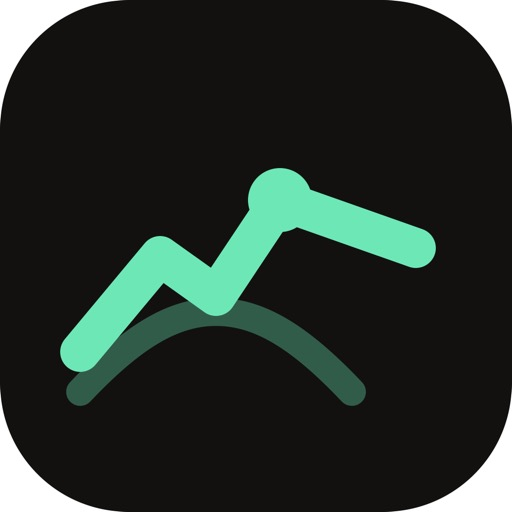
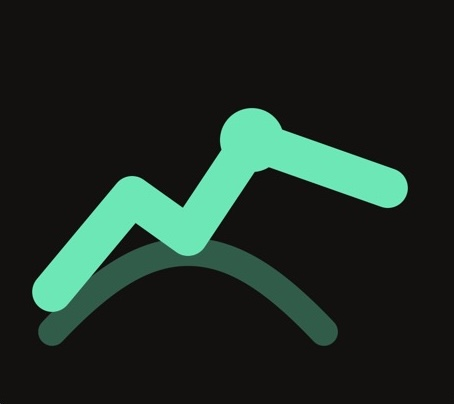
Changes

diff --git a/lib/positionAnalysis.ts b/lib/positionAnalysis.ts
@@ -1,10 +1,28 @@
+import type { Position } from "@/app/types/schwab";
+import {
+  buildInsightsCacheKey,
+  readInsightsCache,
+} from "@/lib/insightsCache";
+
 export const ANALYZE_POSITION_EVENT = "tomcrest:analyze-position";
 export const ANALYZE_PORTFOLIO_EVENT = "tomcrest:analyze-portfolio";
 export const SYMBOL_ANALYSIS_SECTION_ID = "symbol-analysis";
 export const PORTFOLIO_ANALYSIS_SECTION_ID = "portfolio-analysis";
+export const MAIN_CONTENT_ID = "main-content";
 
 /** @deprecated Use SYMBOL_ANALYSIS_SECTION_ID */
 export const SYMBOL_INSIGHTS_SECTION_ID = SYMBOL_ANALYSIS_SECTION_ID;
+
+export type PortfolioAnalysisRequestDetail = {
+  forceAnalyze?: boolean;
+};
+
+export function hasPortfolioAnalysis(positions: Position[]): boolean {
+  if (!positions.length) return false;
+
+  const cacheKey = buildInsightsCacheKey("PORTFOLIO", positions, true);
+  return !!readInsightsCache(cacheKey, "PORTFOLIO");
+}
 
 export function requestPositionAnalysis(symbol?: string) {
   if (typeof window === "undefined") return;
@@ -18,16 +36,75 @@ export function requestPositionAnalysis(symbol?: string) {
   scrollToAnalysisSection(SYMBOL_ANALYSIS_SECTION_ID);
 }
 
-export function requestPortfolioAnalysis() {
+export function goToPortfolioAnalysis(
+  options?: PortfolioAnalysisRequestDetail,
+) {
   if (typeof window === "undefined") return;
 
-  window.dispatchEvent(new CustomEvent(ANALYZE_PORTFOLIO_EVENT));
+  window.dispatchEvent(
+    new CustomEvent<PortfolioAnalysisRequestDetail>(ANALYZE_PORTFOLIO_EVENT, {
+      detail: { forceAnalyze: options?.forceAnalyze ?? true },
+    }),
+  );
+
+  scrollToAnalysisSection(PORTFOLIO_ANALYSIS_SECTION_ID);
 }
 
-function scrollToAnalysisSection(sectionId: string) {
-  window.requestAnimationFrame(() => {
-    document
-      .getElementById(sectionId)
-      ?.scrollIntoView({ behavior: "smooth", block: "start" });
-  });
+export function requestPortfolioAnalysis() {
+  goToPortfolioAnalysis({ forceAnalyze: true });
+}
+
+function readScrollMarginTop(element: HTMLElement): number {
+  const value = getComputedStyle(element).scrollMarginTop;
+  if (!value || value === "auto") return 0;
+  if (value.endsWith("rem")) {
+    return Number.parseFloat(value) * 16;
+  }
+  if (value.endsWith("px")) {
+    return Number.parseFloat(value);
+  }
+  return Number.parseFloat(value) || 0;
+}
+
+function scrollMainContentToTarget(target: HTMLElement) {
+  const root = document.getElementById(MAIN_CONTENT_ID);
+  if (!root || root.scrollHeight <= root.clientHeight + 1) return;
+
+  const scrollMargin = readScrollMarginTop(target);
+  const rootRect = root.getBoundingClientRect();
+  const targetRect = target.getBoundingClientRect();
+  const nextTop =
+    root.scrollTop + (targetRect.top - rootRect.top) - scrollMargin;
+  root.scrollTo({ top: Math.max(0, nextTop), behavior: "smooth" });
+}
+
+export function scrollToAnalysisSection(sectionId: string) {
+  const scrollOnce = (): boolean => {
+    const target = document.getElementById(sectionId);
+    if (!target) return false;
+
+    target.scrollIntoView({ behavior: "smooth", block: "start" });
+    scrollMainContentToTarget(target);
+    return true;
+  };
+
+  const scheduleScroll = (delayMs: number, attemptsLeft = 0) => {
+    window.setTimeout(() => {
+      if (scrollOnce()) {
+        if (attemptsLeft > 0) {
+          scheduleScroll(80, attemptsLeft - 1);
+        }
+        return;
+      }
+      if (attemptsLeft > 0) {
+        scheduleScroll(50, attemptsLeft - 1);
+      }
+    }, delayMs);
+  };
+
+  window.requestAnimationFrame(scrollOnce);
+  scheduleScroll(0, 10);
+  scheduleScroll(200);
+  scheduleScroll(500);
+  scheduleScroll(900);
 }

diff --git a/components/AnalysisPanel.tsx b/components/AnalysisPanel.tsx
@@ -2,7 +2,7 @@
 
 import Link from "next/link";
 import { useRouter } from "next/navigation";
-import { useContext, useEffect, useMemo, useState } from "react";
+import { useContext, useEffect, useMemo, useRef, useState } from "react";
 import { createPortal } from "react-dom";
 import {
   Filter,
@@ -52,6 +52,8 @@ import {
   ANALYZE_POSITION_EVENT,
   PORTFOLIO_ANALYSIS_SECTION_ID,
   SYMBOL_ANALYSIS_SECTION_ID,
+  scrollToAnalysisSection,
+  type PortfolioAnalysisRequestDetail,
 } from "@/lib/positionAnalysis";
 import { scrollToChat } from "@/lib/scrollToChat";
 import { symbolHubPath } from "@/lib/symbolRoutes";
@@ -71,6 +73,13 @@ type PortfolioProps = {
   symbolAlertMap?: Record<string, SymbolAlertSummary>;
   /** Which slice of the portfolio panel to show on the current tab. */
   portfolioView?: "analysis" | "holdings";
+  /** Morning Brief / portfolio navigation requests. */
+  portfolioNavigation?: PortfolioNavigationRequest | null;
+};
+
+export type PortfolioNavigationRequest = {
+  token: number;
+  forceAnalyze: boolean;
 };
 
 type SymbolProps = {
@@ -639,6 +648,10 @@ export function AnalysisPanel(props: AnalysisPanelProps) {
   const [pendingAnalyze, setPendingAnalyze] = useState(false);
   const [sortKey, setSortKey] = useState<SortKey>("weight");
   const [alertsOnly, setAlertsOnly] = useState(false);
+  const portfolioRescrollRef = useRef(false);
+  const portfolioWaitForAnalyzeRef = useRef(false);
+  const portfolioNavigation =
+    isPortfolio ? (props.portfolioNavigation ?? null) : null;
 
   const symbolAlertMap = isPortfolio ? (props.symbolAlertMap ?? {}) : {};
   const positionMap = isPortfolio ? props.positionMap : null;
@@ -730,6 +743,13 @@ export function AnalysisPanel(props: AnalysisPanelProps) {
       setRequested(true);
     };
 
+    const requestPortfolioScroll = (forceAnalyze: boolean) => {
+      portfolioRescrollRef.current = true;
+      portfolioWaitForAnalyzeRef.current = forceAnalyze;
+      setRequested(true);
+      scrollToAnalysisSection(PORTFOLIO_ANALYSIS_SECTION_ID);
+    };
+
     const handlePositionAnalyze = (event: Event) => {
       if (isPortfolio || loading || pendingAnalyze) return;
       const detail = (event as CustomEvent<{ symbol?: string }>).detail;
@@ -737,8 +757,16 @@ export function AnalysisPanel(props: AnalysisPanelProps) {
       beginAnalyze();
     };
 
-    const handlePortfolioAnalyze = () => {
-      if (!isPortfolio || loading || pendingAnalyze) return;
+    const handlePortfolioAnalyze = (event: Event) => {
+      if (!isPortfolio) return;
+
+      const forceAnalyze =
+        (event as CustomEvent<PortfolioAnalysisRequestDetail>).detail
+          ?.forceAnalyze ?? true;
+
+      requestPortfolioScroll(forceAnalyze);
+
+      if (!forceAnalyze || loading || pendingAnalyze) return;
       beginAnalyze();
     };
 
@@ -752,6 +780,45 @@ export function AnalysisPanel(props: AnalysisPanelProps) {
       );
     };
   }, [isPortfolio, loading, pendingAnalyze, refetch, symbol]);
+
+  useEffect(() => {
+    if (!isPortfolio || !showPortfolioAnalysis || !portfolioNavigation) return;
+
+    const { forceAnalyze } = portfolioNavigation;
+
+    portfolioRescrollRef.current = true;
+    portfolioWaitForAnalyzeRef.current = forceAnalyze;
+    setRequested(true);
+
+    if (forceAnalyze && !loading && !pendingAnalyze) {
+      setPendingAnalyze(true);
+      refetch();
+    }
+  }, [isPortfolio, showPortfolioAnalysis, portfolioNavigation?.token]);
+
+  useEffect(() => {
+    if (!isPortfolio || !showPortfolioAnalysis || !portfolioRescrollRef.current) {
+      return;
+    }
+
+    if (portfolioWaitForAnalyzeRef.current && (loading || pendingAnalyze)) {
+      return;
+    }
+
+    const hasOutput = !!content?.trim() || !!structuredAnalysis;
+    if (!hasOutput) return;
+
+    portfolioRescrollRef.current = false;
+    portfolioWaitForAnalyzeRef.current = false;
+    scrollToAnalysisSection(PORTFOLIO_ANALYSIS_SECTION_ID);
+  }, [
+    isPortfolio,
+    showPortfolioAnalysis,
+    loading,
+    pendingAnalyze,
+    content,
+    structuredAnalysis,
+  ]);
 
   const symbolSummaries = useMemo(() => {
     if (!isPortfolio || !positionMap) return [];
@@ -810,9 +877,7 @@ export function AnalysisPanel(props: AnalysisPanelProps) {
     refetch();
     setRequested(true);
     if (isPortfolio) {
-      document
-        .getElementById(PORTFOLIO_ANALYSIS_SECTION_ID)
-        ?.scrollIntoView({ behavior: "smooth", block: "start" });
+      scrollToAnalysisSection(PORTFOLIO_ANALYSIS_SECTION_ID);
     }
   };
 
@@ -960,6 +1025,7 @@ export function AnalysisPanel(props: AnalysisPanelProps) {
   return (
     <section
       id={sectionId}
+      style={{ scrollMarginTop: "5.5rem" }}
       className={cn(
         "overflow-hidden rounded-2xl border border-border bg-secondary/60 shadow-sm",
         className,

diff --git a/app/portfolio/page.tsx b/app/portfolio/page.tsx
@@ -10,7 +10,7 @@ import { PortfolioSnapshot } from "@/components/PortfolioSnapshot";
 import { PortfolioAttentionSection, countAttentionItems } from "@/components/PortfolioAttentionSection";
 import { PortfolioBriefSection } from "@/components/PortfolioBriefSection";
 import { PortfolioRiskSection } from "@/components/PortfolioRiskSection";
-import { AnalysisPanel } from "@/components/AnalysisPanel";
+import { AnalysisPanel, type PortfolioNavigationRequest } from "@/components/AnalysisPanel";
 import { PortfolioOnboarding } from "@/components/PortfolioOnboarding";
 import { StrategyJourneyPanel } from "@/components/StrategyJourneyPanel";
 import { StrategyOnboardingWizard } from "@/components/StrategyOnboardingWizard";
@@ -37,9 +37,9 @@ import {
 } from "@/lib/onboardingStorage";
 import { scrollToChat } from "@/lib/scrollToChat";
 import {
-  ANALYZE_PORTFOLIO_EVENT,
+  hasPortfolioAnalysis,
   PORTFOLIO_ANALYSIS_SECTION_ID,
-  requestPortfolioAnalysis,
+  scrollToAnalysisSection,
 } from "@/lib/positionAnalysis";
 import { pageSectionClass } from "@/lib/pageLayout";
 import { PageShell, PageSplit } from "@/components/PageShell";
@@ -73,6 +73,9 @@ export default function PortfolioPage() {
   const [strategyDismissed, setStrategyDismissed] = useState(true);
   const [pendingPortfolioAnalysis, setPendingPortfolioAnalysis] = useState(false);
   const [portfolioAnalysisLoading, setPortfolioAnalysisLoading] = useState(false);
+  const [portfolioNavigation, setPortfolioNavigation] =
+    useState<PortfolioNavigationRequest | null>(null);
+  const pendingGoToAnalysisRef = useRef<{ forceAnalyze: boolean } | null>(null);
 
   useEffect(() => {
     setStrategyDismissed(isStrategyOnboardingDismissed());
@@ -87,24 +90,28 @@ export default function PortfolioPage() {
 
   const startPortfolioAnalysis = useCallback(() => {
     setPendingPortfolioAnalysis(true);
-    window.requestAnimationFrame(() => {
-      document
-        .getElementById(PORTFOLIO_ANALYSIS_SECTION_ID)
-        ?.scrollIntoView({ behavior: "smooth", block: "start" });
-    });
+    scrollToAnalysisSection(PORTFOLIO_ANALYSIS_SECTION_ID);
   }, []);
-
-  useEffect(() => {
-    window.addEventListener(ANALYZE_PORTFOLIO_EVENT, startPortfolioAnalysis);
-    return () =>
-      window.removeEventListener(ANALYZE_PORTFOLIO_EVENT, startPortfolioAnalysis);
-  }, [startPortfolioAnalysis]);
 
   useEffect(() => {
     if (!pendingPortfolioAnalysis) return;
     const timer = window.setTimeout(() => setPendingPortfolioAnalysis(false), 0);
     return () => window.clearTimeout(timer);
   }, [pendingPortfolioAnalysis]);
+
+  useEffect(() => {
+    if (activeSection !== "today") return;
+
+    const pending = pendingGoToAnalysisRef.current;
+    if (!pending) return;
+
+    pendingGoToAnalysisRef.current = null;
+    setPortfolioNavigation({
+      token: Date.now(),
+      forceAnalyze: pending.forceAnalyze,
+    });
+    scrollToAnalysisSection(PORTFOLIO_ANALYSIS_SECTION_ID);
+  }, [activeSection]);
 
   const {
     catalog,
@@ -222,8 +229,24 @@ export default function PortfolioPage() {
   }, []);
 
   const handleAnalyzePortfolio = useCallback(() => {
-    requestPortfolioAnalysis();
-  }, []);
+    const forceAnalyze = !hasPortfolioAnalysis(allPositions);
+
+    if (forceAnalyze) {
+      startPortfolioAnalysis();
+    }
+
+    if (activeSection !== "today") {
+      pendingGoToAnalysisRef.current = { forceAnalyze };
+      setActiveSection("today");
+      return;
+    }
+
+    setPortfolioNavigation({
+      token: Date.now(),
+      forceAnalyze,
+    });
+    scrollToAnalysisSection(PORTFOLIO_ANALYSIS_SECTION_ID);
+  }, [activeSection, allPositions, setActiveSection, startPortfolioAnalysis]);
 
   const handleTaxAlert = useCallback(
     (item: TaxAlertItem) => {
@@ -372,6 +395,7 @@ export default function PortfolioPage() {
               }
               symbolAlertMap={symbolAlertMap}
               autoStart={pendingPortfolioAnalysis}
+              portfolioNavigation={portfolioNavigation}
               onLoadingChange={setPortfolioAnalysisLoading}
               onAskFollowUp={() => scrollToChat()}
               className={pageSectionClass}